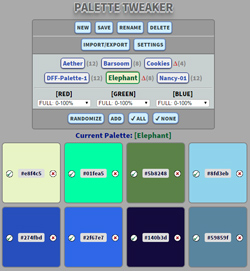
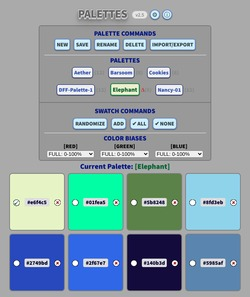
New screenshots showing the Palettes name
Replace the README screenshot and the help page's overview image, which
still showed the old Palette Tweaker title.

Claude-Session: https://claude.ai/code/session_013eJo4q8gYQ2UfkYMUoruY8

diff --git a/Palettes-Help.html b/Palettes-Help.html
@@ -47,7 +47,7 @@
 <a name="Overview"></a>
 <h2>Overview of Palettes</h2>
 
-<p><img src="docs/Overview-250.jpg" alt="Overview screenshot showing main commands and colors in a palette." class="help-image" /><strong>Palettes</strong> provides an interactive approach to building and modifying color palettes.  Sure, you've got your principled approaches based on color theories and human physiology. And then there's the <em>I'll-know-it-when-I-see-it approach</em> &mdash; that's what you get with Palettes. If you want to adjust a given palette, Palettes makes it easy. You can start from scratch, too, building up a palette in an interactive process where you put constraints on the individual red, green, and blue components, and then generate random colors within those ranges.</p>
+<p><img src="docs/Overview-250.jpg?v=20261005" alt="Overview screenshot showing main commands and colors in a palette." class="help-image" /><strong>Palettes</strong> provides an interactive approach to building and modifying color palettes.  Sure, you've got your principled approaches based on color theories and human physiology. And then there's the <em>I'll-know-it-when-I-see-it approach</em> &mdash; that's what you get with Palettes. If you want to adjust a given palette, Palettes makes it easy. You can start from scratch, too, building up a palette in an interactive process where you put constraints on the individual red, green, and blue components, and then generate random colors within those ranges.</p>
 <p>The basic idea is that Palettes lets you build a palette of color swatches, either starting from a list of your own colors, or by interactively guiding a semi-random process. That's one of the key elements of PT &mdash; it's so fast when you hit the Randomize button that you can cycle through a lot of color variations quickly.  As you cycle through random colors, you can select (check) the swatches you want to keep in the palette. The Randomize function keeps any checked color swatches, and simply randomizes the rest of the colors in the palette.</p>
 <p>Palettes does not sort the individual color swatches at any time. You can rearrange the boxes by dragging them around, and Palettes will retain any order you impose. If you check some of the swatch boxes and then Randomize, all of the checked boxes will coalesce (in their current relative order) at the start of the palette.</p>
 <p><strong>One thing to note:</strong> reloading a palette from browser storage causes all of the swatches to be selected (the check mark), on the assumption that the prior act of saving it indicated its worthiness.</p>
